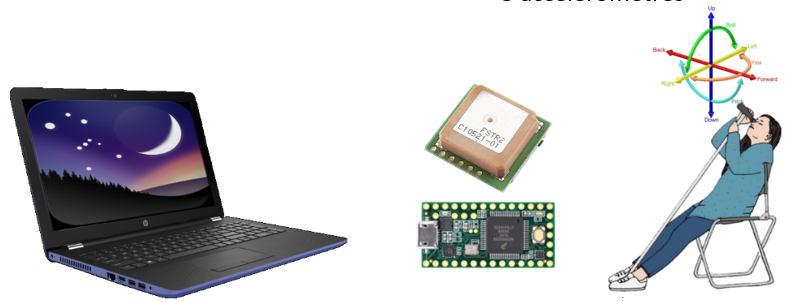
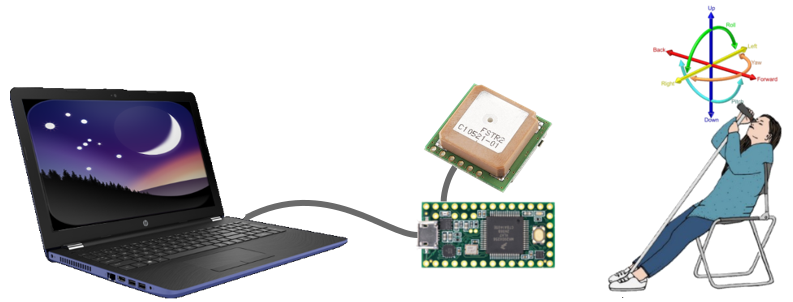
Short introduction

Changed region(s): [[0.3026, 0.6556, 0.4842, 0.745], [0.5448, 0.5364, 0.575, 0.6854], [0.4842, 0.745, 0.5448, 0.8046]]

diff --git a/README.md b/README.md
@@ -1,1 +1,9 @@
 # IMUforBinoculars
+
+Le système se compose d’une centrale inertielle 9 axes, d’un processeur de calcul, et d’un PC ou sont installés le logiciel Stellarium.
+
+En utilisant le GPS, nous obtenons la data, heure et position sur terre de l'observateur. En utilisant la centrale intertielle 9 axes nous obtenons la direction visée.
+
+Après un calcul de changement de repère, l'ascention droite et la déclinaison sont envoyées au logiciel Stellarium qui montre l'endroit visé dans le ciel.
+
+![Principe général](https://github.com/ddieffen/IMUforBinoculars/raw/master/Wiki/GeneralPrinciple.png)
